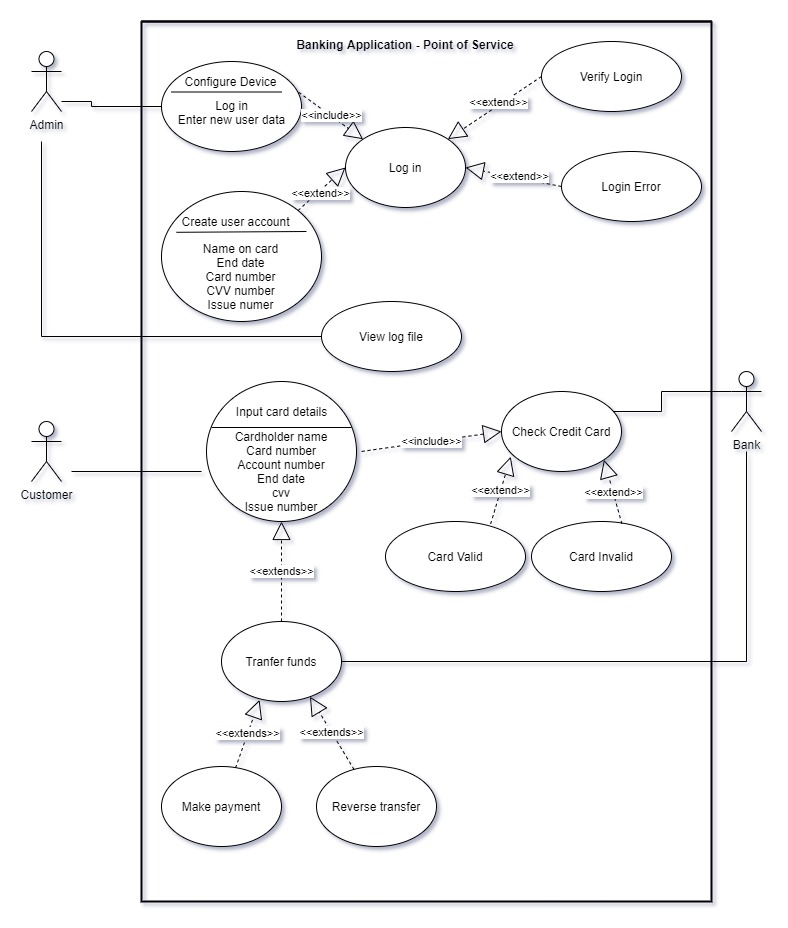
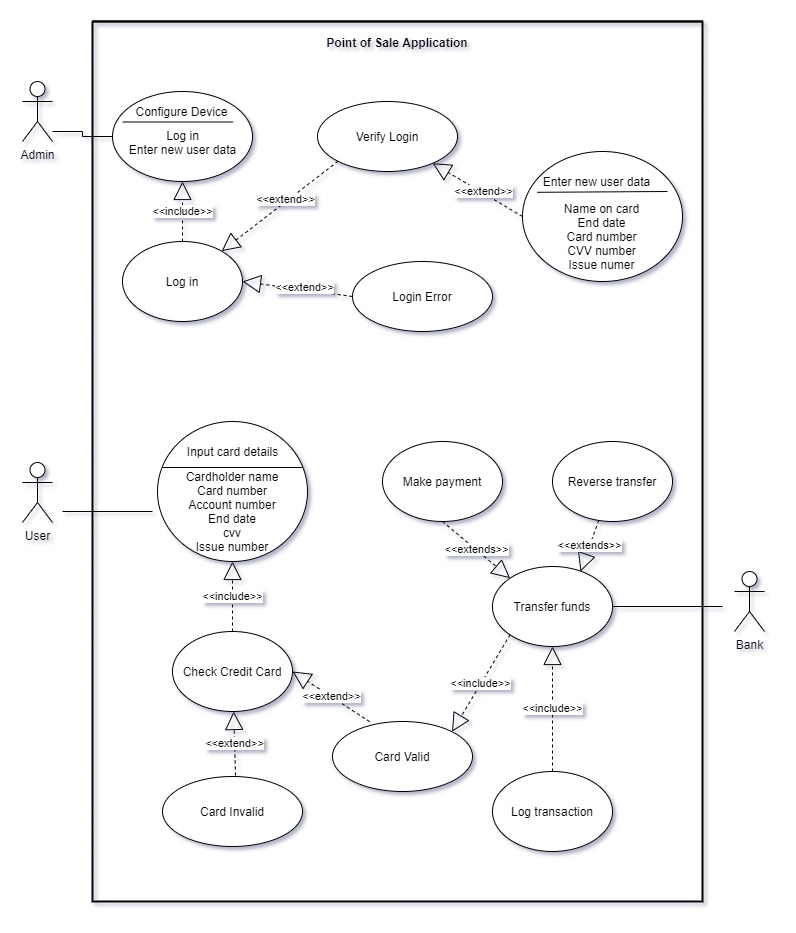
Updated use case diagram and edited design doc

diff --git a/docs/documentation.md b/docs/documentation.md
@@ -110,11 +110,11 @@ The following uses cases describe how users will use the application and outline
 | Test Case ID  | Use Case ID    | Preconditions     | Test Steps | Expected Post Conditions to Pass |
 | :------------- | :-------------  | :------------- | :-------------  | :-------------  | 
 | TC1 | UC1 | Tomcat server is running and Tester is on *Administrator* page. | 1. "http://com528bank.ukwest.cloudapp.azure.com:8080/rest" is entered into *Bank URL* field.<br/>2. "testuser2" is entered into *Username* field.<br/>3. "defaulttestpass" is entered into *Password* field.<br/>4."test" is entered into *Name on Credit Card* field.<br/>5."11/21" is entered into *Credit Card End Date* field.<br/>6."4285860000000021" is entered into *Credit Card Number* field.<br/>7."123" is entered into *CVV Number* field.<br/>8. "01" is entered into *Issue Number* field.<br/> 9. *Submit Configuration* button is clicked. | Page displays "PoS now configured" message. Local application.properties file updated to match inputted data. | 
-| TC2 | UC2 | Tomcat server is running and Tester is on *Administrator* page. | All steps as per TC1 except: <br/>1. Any required field is left empty.| Page displays "Please complete all fields before updating properties" message. Local application.properties file has not updated.|
-| TC3 | UC3 | Tomcat server is running and Tester is on *Administrator* page.| All steps as per TC1 except:<br/>5. "1234567891234567" is entered into *Credit Card Number* field.| Credit card number fails Luhn check within MVC Controller. Page displays "Invalid credit card number" message. Local application.properties file has not updated.|
+| TC2 | UC2 | Tomcat server is running and Tester is on *Administrator* page. | All steps as per TC1 except: <br/>1. Any required field is left empty.| Page displays "Please complete all fields before updating properties" message. Local application.properties file is not updated.|
+| TC3 | UC3 | Tomcat server is running and Tester is on *Administrator* page.| All steps as per TC1 except:<br/>5. "1234567891234567" is entered into *Credit Card Number* field.| Credit card number fails Luhn check within MVC Controller. Page displays "Invalid credit card number" message. Local application.properties file is not updated.|
 | TC4 | UC4 | Tomcat server is running.<br/> Tester is on "PoS" page and the PoS displays reads "Please select an option:<br/>1) Payment <br/>2) Refund" | 1. "8" is entered.<br/>2. *Accept* button is clicked.| "Not a valid entry" is displayed at the top of the screen and the user is prompted to input again.| 
-| TC5 | UC4 | Tomcat server is running.<br/> Tester is on "PoS" page and the PoS displays reads "Please select an option:<br/>1) Payment <br/>2) Refund" | 1. "1" is entered.<br/>2. *Accept* button is clicked.| The display of the PoS changes to "Please enter amount:"|
-| TC6 | UC5 | Tomcat server is running.<br/> Tester is on "PoS" page and the PoS displays reads "Please select an option:<br/>1) Payment <br/>2) Refund" | 1. "2" is entered.<br/>2. *Accept* button is clicked.| The display of the PoS changes to "Please enter amount:"|
+| TC5 | UC5 | Tomcat server is running.<br/> Tester is on "PoS" page and the PoS displays reads "Please select an option:<br/>1) Payment <br/>2) Refund" | 1. "1" is entered.<br/>2. *Accept* button is clicked.| The display of the PoS changes to "Please enter amount:"|
+| TC6 | UC6 | Tomcat server is running.<br/> Tester is on "PoS" page and the PoS displays reads "Please select an option:<br/>1) Payment <br/>2) Refund" | 1. "2" is entered.<br/>2. *Accept* button is clicked.| The display of the PoS changes to "Please enter amount:"|
 | TC7.1 | UC7 | Tomcat server is running.<br/> Tester is on "PoS" page and has inputted:<br/>*Option* = "1"|1. "/" or "." is inputted for amount.<br/>2. *Accept* button is clicked.| "Please enter a number" is displayed at the top of the screen. |
 | TC7.2 | UC7 | Tomcat server is running.<br/> Tester is on "PoS" page and has inputted:<br/>*Option* = "1"| 1. "10.00" is inputted for amount.<br/>2. *Accept* button is clicked.<br/>3. "bob" is inputted for name.<br/>4. *Accept* button is clicked.<br/> 5. "1234" is inputted for credit card number.<br/>6. *Accept* button is clicked.| "Card numbers must be 16 digits" is displayed at the top of the screen and the user is prompted to input again. |
 | TC7.3 | UC7 | Tomcat server is running.<br/> Tester is on "PoS" page and has inputted:<br/>*Option* = "1"| 1. "10.00" is inputted for amount.<br/>2. *Accept* button is clicked.<br/>3. "bob" is inputted for name.<br/>4. *Accept* button is clicked.<br/>5. "5133880000000012" is inputted for card number.<br/>6. *Accept* button is clicked.<br/>7. "1" is inputted for expiry date.<br/>8. *Accept* button is clicked.| "Date must be formatted as MM/YY" is displayed at the top of the screen and the user is prompted to input again. |
